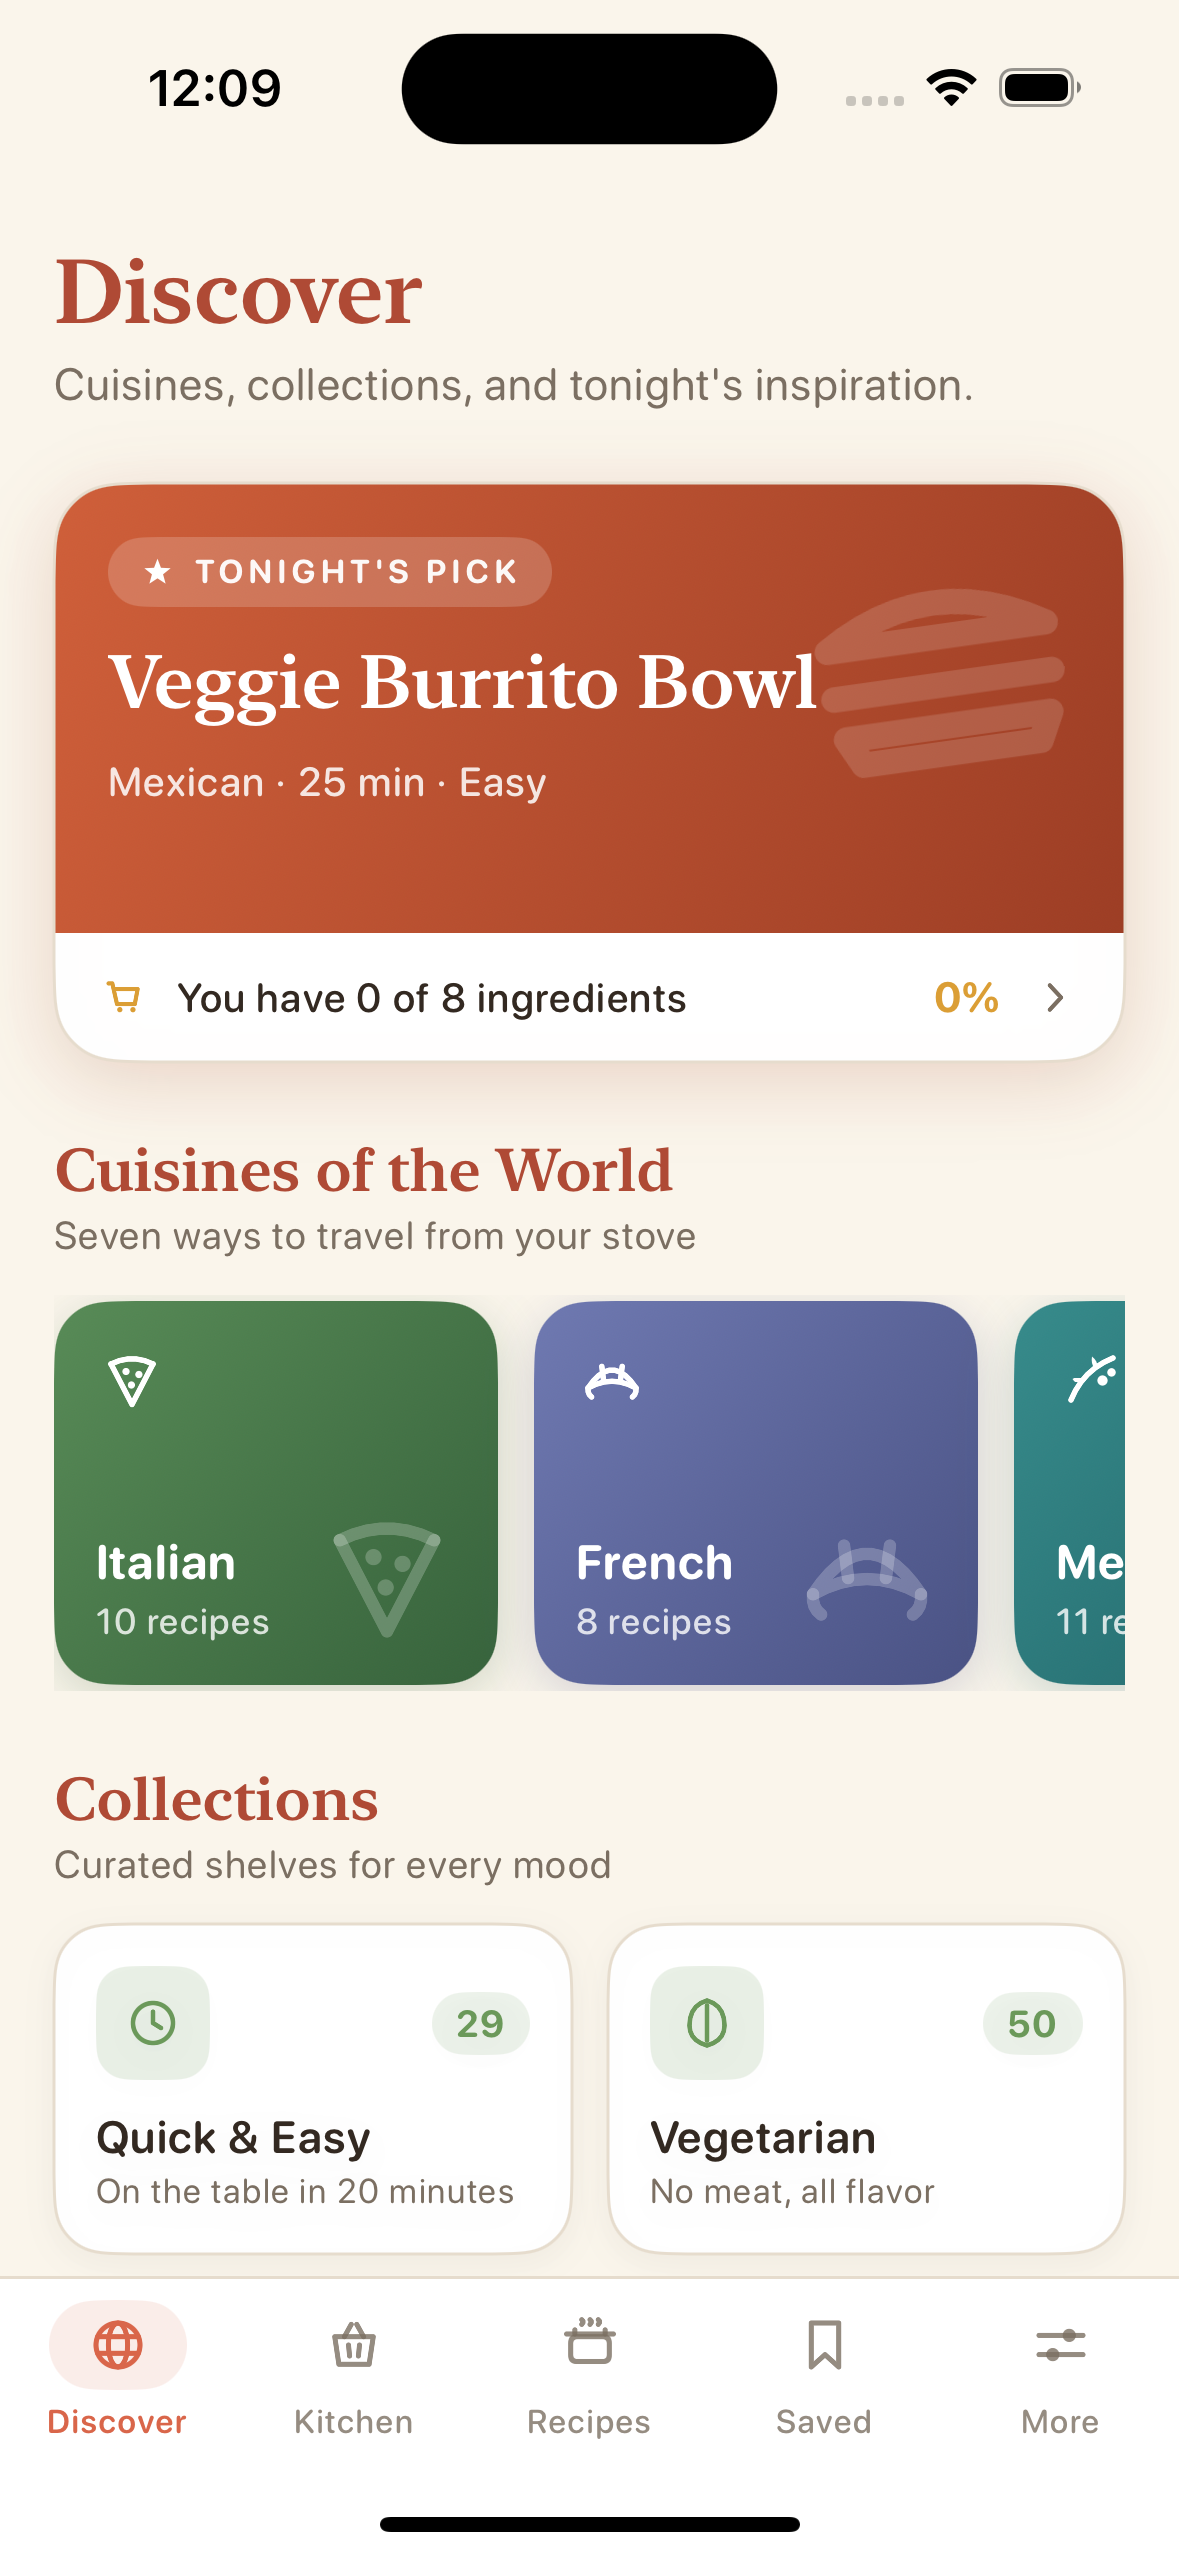
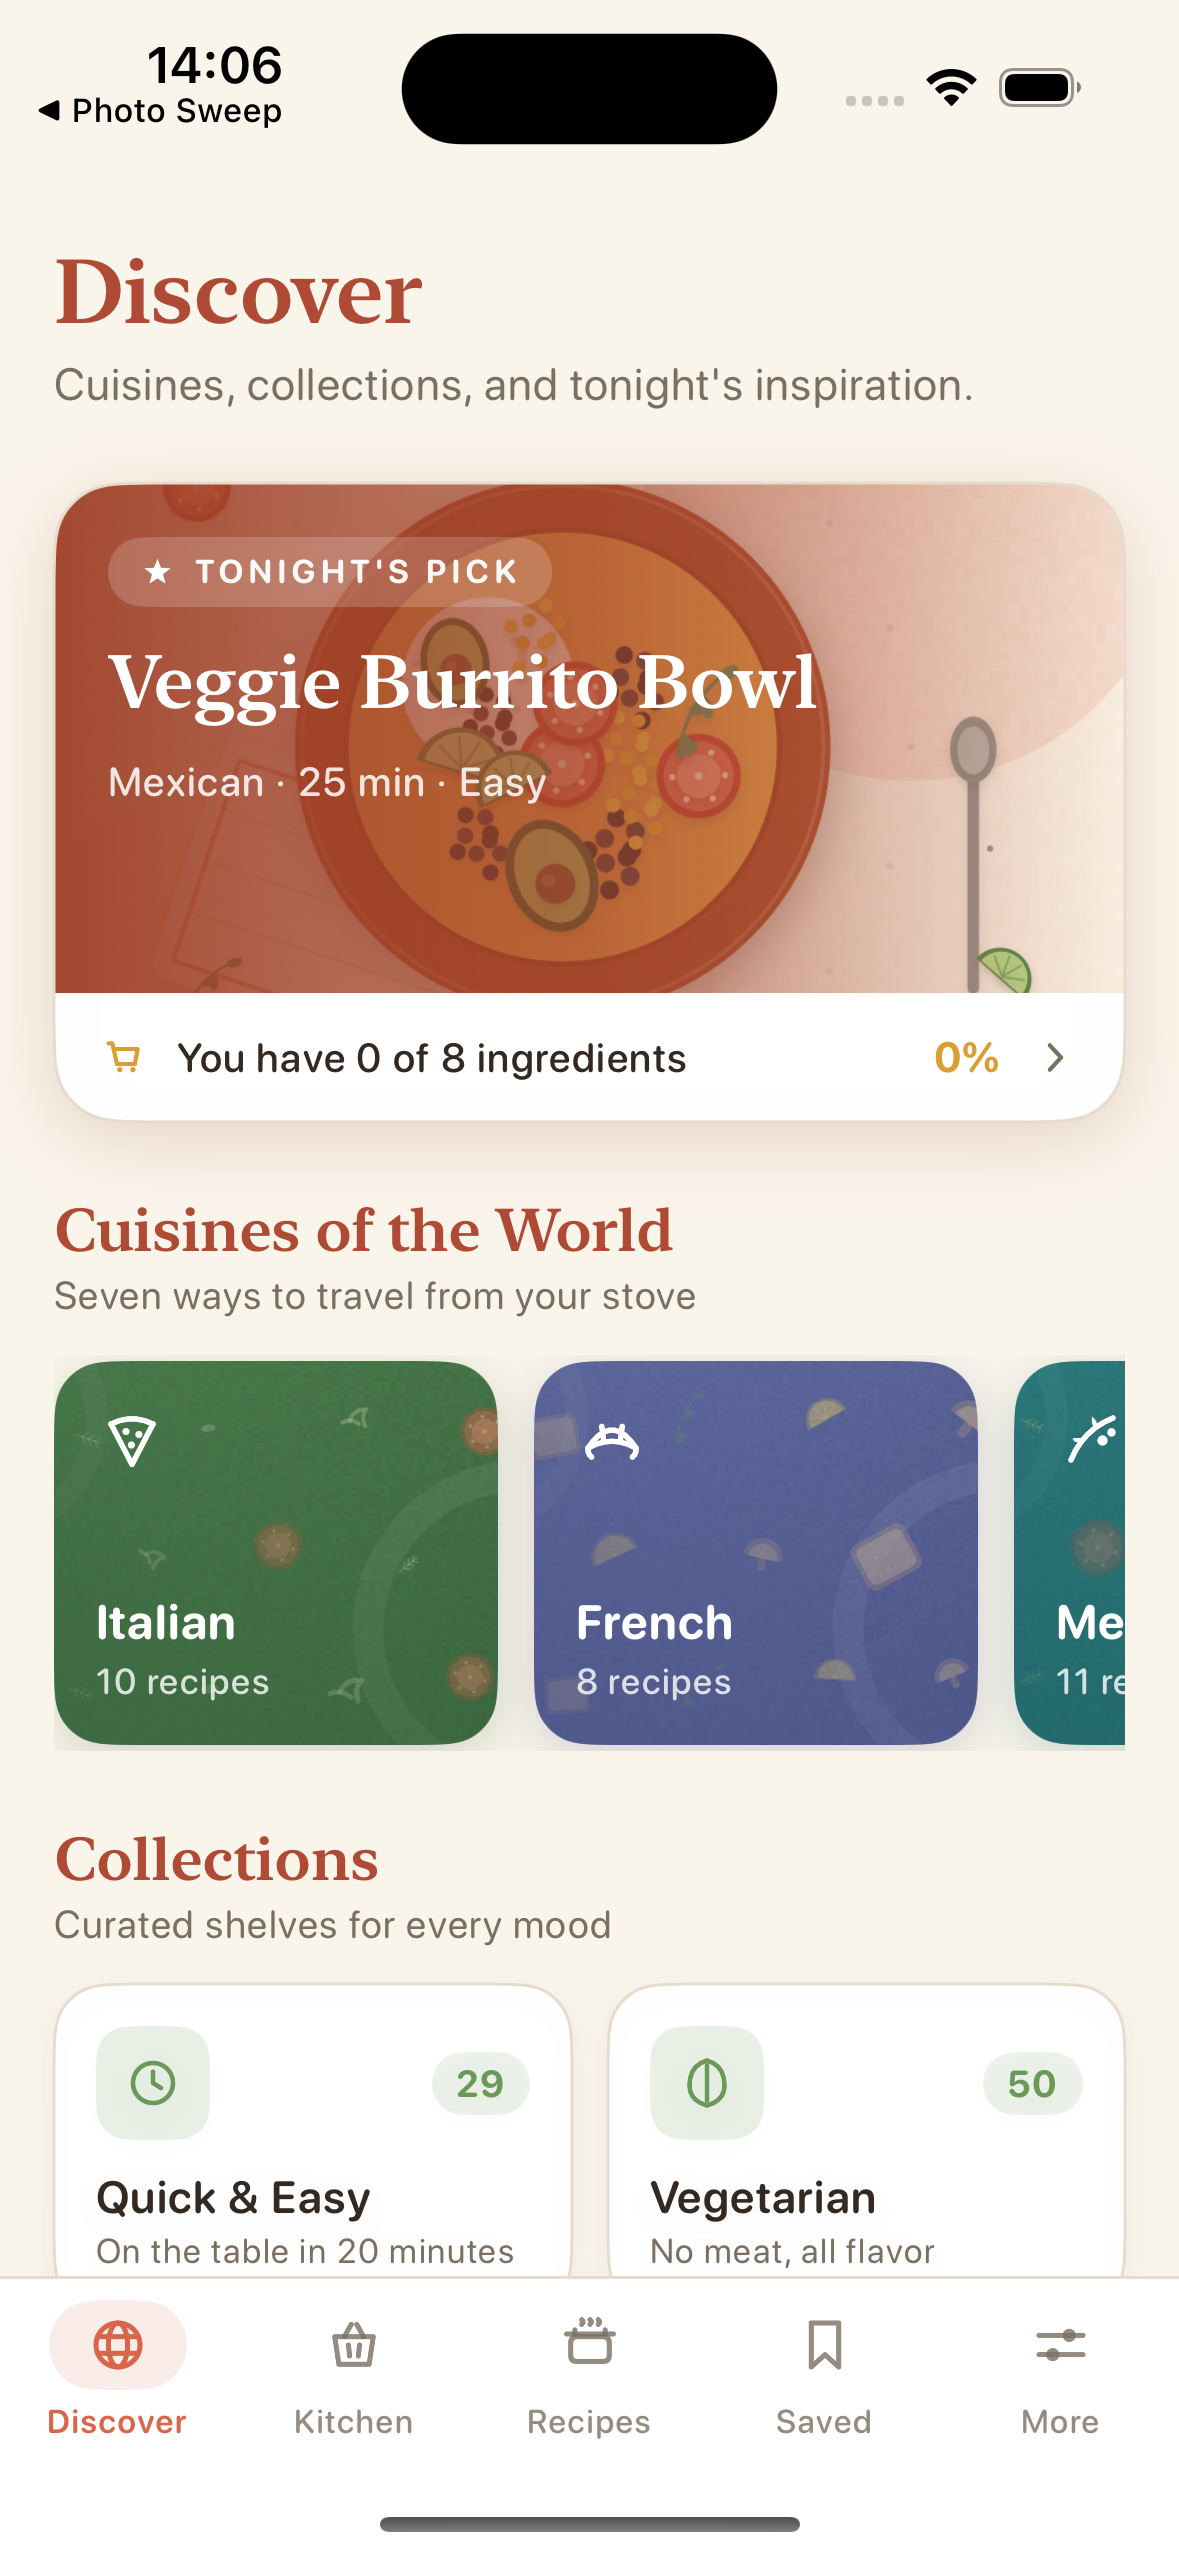
v1.2 Illustrated Edition — 80 bundled recipe/cuisine/collection illustrations, art in all surfaces, 15-20 MB size target

diff --git a/Fridge Rescue/FoodArtStore.swift b/Fridge Rescue/FoodArtStore.swift
@@ -1,0 +1,74 @@
+import SwiftUI
+
+// Loader for the bundled illustration library (FoodArt/ folder reference).
+// Every accessor is optional — views always fall back to the glyph emblems,
+// so a missing file can never break the UI.
+enum FoodArtLibrary {
+    private static let cache = NSCache<NSString, UIImage>()
+
+    static func image(_ name: String) -> UIImage? {
+        if let hit = cache.object(forKey: name as NSString) { return hit }
+        guard let url = Bundle.main.url(forResource: name, withExtension: "png",
+                                        subdirectory: "FoodArt"),
+              let img = UIImage(contentsOfFile: url.path) else { return nil }
+        cache.setObject(img, forKey: name as NSString)
+        return img
+    }
+
+    static func recipe(_ id: String) -> UIImage? { image("recipe_" + id) }
+    static func cuisine(_ c: Cuisine) -> UIImage? { image("cuisine_" + c.rawValue.lowercased()) }
+    static func collection(_ id: String) -> UIImage? { image("collection_" + id) }
+}
+
+// A recipe cover: the illustration when available, the old glyph emblem otherwise.
+struct RecipeArtView: View {
+    let recipe: Recipe
+    var corner: CGFloat = 14
+
+    var body: some View {
+        GeometryReader { geo in
+            Group {
+                if let ui = FoodArtLibrary.recipe(recipe.id) {
+                    Image(uiImage: ui)
+                        .resizable()
+                        .scaledToFill()
+                } else {
+                    ZStack {
+                        LinearGradient(colors: [recipe.cuisine.color.opacity(0.20),
+                                                recipe.cuisine.shade.opacity(0.30)],
+                                       startPoint: .topLeading, endPoint: .bottomTrailing)
+                        GlyphIcon(glyph: recipe.kind.glyph,
+                                  size: min(geo.size.width, geo.size.height) * 0.45,
+                                  color: recipe.cuisine.color)
+                    }
+                }
+            }
+            .frame(width: geo.size.width, height: geo.size.height)
+            .clipShape(RoundedRectangle(cornerRadius: corner, style: .continuous))
+        }
+    }
+}
+
+// A cuisine banner background with a legibility gradient for overlaid text.
+struct CuisineArtBackground: View {
+    let cuisine: Cuisine
+
+    var body: some View {
+        GeometryReader { geo in
+            ZStack {
+                if let ui = FoodArtLibrary.cuisine(cuisine) {
+                    Image(uiImage: ui)
+                        .resizable()
+                        .scaledToFill()
+                        .frame(width: geo.size.width, height: geo.size.height)
+                } else {
+                    LinearGradient(colors: [cuisine.color, cuisine.shade],
+                                   startPoint: .topLeading, endPoint: .bottomTrailing)
+                }
+                LinearGradient(colors: [cuisine.shade.opacity(0.75), Color.clear],
+                               startPoint: .bottomLeading, endPoint: .topTrailing)
+            }
+            .frame(width: geo.size.width, height: geo.size.height)
+        }
+    }
+}

diff --git a/Fridge Rescue/CuisineViews.swift b/Fridge Rescue/CuisineViews.swift
@@ -46,14 +46,7 @@ struct CuisineDetailView: View {
 
     private var hero: some View {
         ZStack(alignment: .bottomLeading) {
-            LinearGradient(colors: [cuisine.color, cuisine.shade],
-                           startPoint: .topLeading, endPoint: .bottomTrailing)
-            HStack {
-                Spacer()
-                GlyphIcon(glyph: cuisine.glyph, size: 96, color: .white.opacity(0.16))
-                    .rotationEffect(.degrees(-8))
-                    .padding(.trailing, 8)
-            }
+            CuisineArtBackground(cuisine: cuisine)
             VStack(alignment: .leading, spacing: 6) {
                 Text(cuisine.rawValue)
                     .font(.kitchenSerif(28, .semibold))
@@ -70,7 +63,7 @@ struct CuisineDetailView: View {
             }
             .padding(18)
         }
-        .frame(height: 150)
+        .frame(height: 160)
         .clipShape(RoundedRectangle(cornerRadius: 22, style: .continuous))
         .shadow(color: cuisine.shade.opacity(0.2), radius: 12, y: 6)
     }
@@ -121,22 +114,38 @@ struct CollectionDetailView: View {
     }
 
     private var header: some View {
-        HStack(spacing: 14) {
-            ZStack {
-                RoundedRectangle(cornerRadius: 14, style: .continuous)
-                    .fill(collection.tint.opacity(0.15))
-                GlyphIcon(glyph: collection.glyph, size: 26, color: collection.tint)
+        VStack(alignment: .leading, spacing: 14) {
+            if let ui = FoodArtLibrary.collection(collection.id) {
+                GeometryReader { geo in
+                    Image(uiImage: ui)
+                        .resizable()
+                        .scaledToFill()
+                        .frame(width: geo.size.width, height: geo.size.height)
+                        .clipped()
+                }
+                .frame(height: 130)
+                .clipShape(RoundedRectangle(cornerRadius: 20, style: .continuous))
+                .overlay(RoundedRectangle(cornerRadius: 20, style: .continuous)
+                    .stroke(Kitchen.hairline, lineWidth: 1))
+                .shadow(color: Color.black.opacity(0.06), radius: 8, y: 4)
             }
-            .frame(width: 52, height: 52)
-            VStack(alignment: .leading, spacing: 3) {
-                Text(collection.title)
-                    .font(.kitchenSerif(23, .semibold))
-                    .foregroundColor(Kitchen.primaryDk)
-                Text("\(collection.subtitle) · \(matches.count) recipes")
-                    .font(.kitchenRounded(13))
-                    .foregroundColor(Kitchen.textMuted)
+            HStack(spacing: 14) {
+                ZStack {
+                    RoundedRectangle(cornerRadius: 14, style: .continuous)
+                        .fill(collection.tint.opacity(0.15))
+                    GlyphIcon(glyph: collection.glyph, size: 26, color: collection.tint)
+                }
+                .frame(width: 52, height: 52)
+                VStack(alignment: .leading, spacing: 3) {
+                    Text(collection.title)
+                        .font(.kitchenSerif(23, .semibold))
+                        .foregroundColor(Kitchen.primaryDk)
+                    Text("\(collection.subtitle) · \(matches.count) recipes")
+                        .font(.kitchenRounded(13))
+                        .foregroundColor(Kitchen.textMuted)
+                }
+                Spacer(minLength: 0)
             }
-            Spacer(minLength: 0)
         }
     }
 }

diff --git a/Fridge Rescue/DiscoverView.swift b/Fridge Rescue/DiscoverView.swift
@@ -63,18 +63,24 @@ struct DiscoverView: View {
         let cuisine = m.recipe.cuisine
         return NavigationLink(destination: RecipeDetailView(recipe: m.recipe)) {
             VStack(alignment: .leading, spacing: 0) {
-                // Hero band
+                // Hero band: the recipe illustration under a cuisine-tinted gradient
+                // so the white text stays legible over the light art.
                 ZStack(alignment: .topLeading) {
-                    LinearGradient(colors: [cuisine.color, cuisine.shade],
-                                   startPoint: .topLeading, endPoint: .bottomTrailing)
-                    // Oversized ghost glyph as a decorative motif.
-                    HStack {
-                        Spacer()
-                        GlyphIcon(glyph: m.recipe.kind.glyph, size: 110, color: .white.opacity(0.14))
-                            .rotationEffect(.degrees(-8))
-                            .padding(.trailing, 6)
-                            .padding(.top, 10)
+                    if let ui = FoodArtLibrary.recipe(m.recipe.id) {
+                        GeometryReader { geo in
+                            Image(uiImage: ui)
+                                .resizable()
+                                .scaledToFill()
+                                .frame(width: geo.size.width, height: geo.size.height)
+                                .clipped()
+                        }
+                    } else {
+                        LinearGradient(colors: [cuisine.color, cuisine.shade],
+                                       startPoint: .topLeading, endPoint: .bottomTrailing)
                     }
+                    LinearGradient(colors: [cuisine.shade.opacity(0.94),
+                                            cuisine.shade.opacity(0.62), .clear],
+                                   startPoint: .leading, endPoint: .trailing)
                     VStack(alignment: .leading, spacing: 10) {
                         HStack(spacing: 6) {
                             GlyphIcon(glyph: .star, size: 13, color: .white)
@@ -96,7 +102,8 @@ struct DiscoverView: View {
                     }
                     .padding(18)
                 }
-                .frame(height: 150)
+                .frame(height: 170)
+                .clipped()
 
                 // Match strip
                 HStack(spacing: 10) {
@@ -220,10 +227,7 @@ struct CuisineCard: View {
     var body: some View {
         VStack(alignment: .leading, spacing: 0) {
             ZStack(alignment: .bottomTrailing) {
-                LinearGradient(colors: [cuisine.color, cuisine.shade],
-                               startPoint: .topLeading, endPoint: .bottomTrailing)
-                GlyphIcon(glyph: cuisine.glyph, size: 54, color: .white.opacity(0.22))
-                    .padding(10)
+                CuisineArtBackground(cuisine: cuisine)
                 VStack(alignment: .leading, spacing: 3) {
                     GlyphIcon(glyph: cuisine.glyph, size: 24, color: .white)
                     Spacer(minLength: 0)
@@ -289,9 +293,9 @@ struct MiniRecipeCard: View {
     let match: MatchResult
     var body: some View {
         VStack(alignment: .leading, spacing: 10) {
-            HStack {
-                MealEmblem(kind: match.recipe.kind, size: 40)
-                Spacer()
+            ZStack(alignment: .topTrailing) {
+                RecipeArtView(recipe: match.recipe, corner: 12)
+                    .frame(height: 92)
                 HStack(spacing: 4) {
                     GlyphIcon(glyph: .check, size: 12, color: Kitchen.ready)
                     Text("100%")
@@ -299,7 +303,8 @@ struct MiniRecipeCard: View {
                         .foregroundColor(Kitchen.ready)
                 }
                 .padding(.horizontal, 8).padding(.vertical, 4)
-                .background(Capsule().fill(Kitchen.ready.opacity(0.12)))
+                .background(Capsule().fill(Color.white.opacity(0.92)))
+                .padding(6)
             }
             Text(match.recipe.name)
                 .font(.kitchenRounded(14.5, .semibold))
@@ -329,7 +334,8 @@ struct AlmostRow: View {
     }
     var body: some View {
         HStack(spacing: 12) {
-            MealEmblem(kind: match.recipe.kind, size: 42)
+            RecipeArtView(recipe: match.recipe, corner: 12)
+                .frame(width: 52, height: 52)
             VStack(alignment: .leading, spacing: 3) {
                 Text(match.recipe.name)
                     .font(.kitchenRounded(15, .semibold))

diff --git a/Fridge Rescue/CookModeView.swift b/Fridge Rescue/CookModeView.swift
@@ -156,10 +156,14 @@ struct CookModeView: View {
         CenteredContent {
             VStack(spacing: 20) {
                 Spacer()
+                RecipeArtView(recipe: recipe, corner: 22)
+                    .frame(height: 190)
+                    .padding(.horizontal, Metrics.gutter)
+                    .shadow(color: Color.black.opacity(0.08), radius: 10, y: 5)
                 ZStack {
-                    Circle().fill(Kitchen.ready.opacity(0.14)).frame(width: 130, height: 130)
-                    Circle().stroke(Kitchen.ready.opacity(0.3), lineWidth: 2).frame(width: 130, height: 130)
-                    GlyphIcon(glyph: .check, size: 56, color: Kitchen.ready)
+                    Circle().fill(Kitchen.ready.opacity(0.14)).frame(width: 72, height: 72)
+                    Circle().stroke(Kitchen.ready.opacity(0.3), lineWidth: 2).frame(width: 72, height: 72)
+                    GlyphIcon(glyph: .check, size: 34, color: Kitchen.ready)
                 }
                 Text("Enjoy your meal!")
                     .font(.kitchenSerif(28, .semibold))

diff --git a/Fridge Rescue/RecipeDetailView.swift b/Fridge Rescue/RecipeDetailView.swift
@@ -74,7 +74,12 @@ struct RecipeDetailView: View {
     // MARK: - Sections
 
     private var titleBlock: some View {
-        VStack(alignment: .leading, spacing: 12) {
+        VStack(alignment: .leading, spacing: 14) {
+            RecipeArtView(recipe: recipe, corner: 22)
+                .frame(height: 210)
+                .overlay(RoundedRectangle(cornerRadius: 22, style: .continuous)
+                    .stroke(Kitchen.hairline, lineWidth: 1))
+                .shadow(color: recipe.cuisine.shade.opacity(0.16), radius: 12, y: 6)
             HStack(spacing: 12) {
                 MealEmblem(kind: recipe.kind, size: 52)
                 VStack(alignment: .leading, spacing: 4) {

diff --git a/Fridge Rescue/MoreView.swift b/Fridge Rescue/MoreView.swift
@@ -150,9 +150,9 @@ struct MoreView: View {
                     Text("Fridge Rescue")
                         .font(.kitchenRounded(15, .semibold)).foregroundColor(Kitchen.text)
                     Spacer()
-                    Text("Version 1.1").font(.kitchenRounded(13)).foregroundColor(Kitchen.textMuted)
+                    Text("Version 1.2").font(.kitchenRounded(13)).foregroundColor(Kitchen.textMuted)
                 }
-                Text("\(FoodLibrary.recipes.count) offline recipes across \(Cuisine.allCases.count) world cuisines · \(FoodLibrary.ingredients.count) ingredients. No accounts, no ads, no internet required.")
+                Text("\(FoodLibrary.recipes.count) illustrated offline recipes across \(Cuisine.allCases.count) world cuisines · \(FoodLibrary.ingredients.count) ingredients. No accounts, no ads, no internet required.")
                     .font(.kitchenRounded(13.5)).foregroundColor(Kitchen.textMuted)
                     .fixedSize(horizontal: false, vertical: true)
                 Button(action: { showPrivacy = true }) {

diff --git a/Fridge Rescue/RecipesView.swift b/Fridge Rescue/RecipesView.swift
@@ -184,7 +184,8 @@ struct RecipeMatchCard: View {
         CardContainer(padding: 16) {
             VStack(alignment: .leading, spacing: 12) {
                 HStack(alignment: .top, spacing: 12) {
-                    MealEmblem(kind: match.recipe.kind, size: 46)
+                    RecipeArtView(recipe: match.recipe)
+                        .frame(width: 62, height: 62)
                     VStack(alignment: .leading, spacing: 4) {
                         Text(match.recipe.name)
                             .font(.kitchenRounded(17, .semibold))